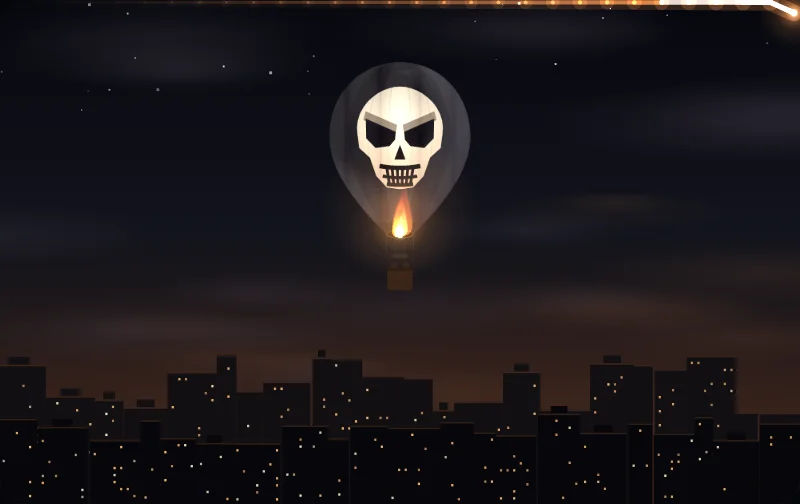
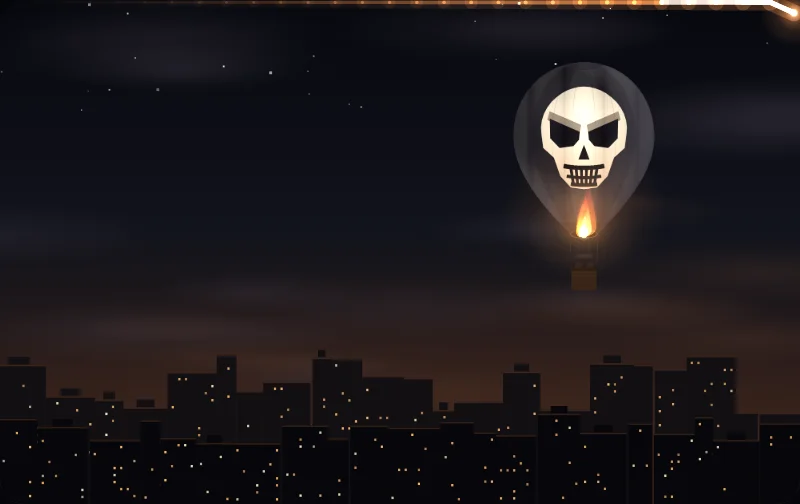
CITY C group 2 — THE SIGHTING CARDS IN THE STANDARD LAYOUT: every sighting's full card laid out like the others (the top line, the plate mid-left, the gem, MEMBER SINCE + Nº bottom-left, the sighting's name + spot line bottom-right); the code-drawn heroes moved right of the plate on a full card (ufo

Changed region(s): [[0.625, 0.119, 0.8438, 0.5952], [0.4062, 0.119, 0.5938, 0.5655]]

diff --git a/api/_lib/lab-text.js b/api/_lib/lab-text.js
@@ -520,6 +520,14 @@ export const LAB_TEXT = {
 // THE LAB 2.0 (THE VAULT 2C) — WHAT CHANGED, per item + version (js/vault/catalog.js#LAB_V holds the numbers): the lab shows the newest
 // line beside his old mark ("CHANGED Nov 3 — …"). A pass that edits an item's art / words bumps its LAB_V + adds its line here.
 export const LAB_CHANGES = {
+  'full-card-sg-ufo': [{ v: 2, at: '2026-11-15', what: 'THE STANDARD LAYOUT (CITY C): laid out like every other full card — the top line, the plate mid-left, the gem, MEMBER SINCE + MEMBER Nº bottom-left and the sighting’s name + spot line bottom-right; the subject moved RIGHT of the plate (it sat mid-card over the old bottom plate).' }],
+  'full-card-sg-tr3b': [{ v: 2, at: '2026-11-15', what: 'THE STANDARD LAYOUT (CITY C): laid out like every other full card — the top line, the plate mid-left, the gem, MEMBER SINCE + MEMBER Nº bottom-left and the sighting’s name + spot line bottom-right; the subject moved RIGHT of the plate (it sat mid-card over the old bottom plate).' }],
+  'full-card-sg-f22': [{ v: 2, at: '2026-11-15', what: 'THE STANDARD LAYOUT (CITY C): laid out like every other full card — the top line, the plate mid-left, the gem, MEMBER SINCE + MEMBER Nº bottom-left and the sighting’s name + spot line bottom-right; the subject moved RIGHT of the plate (it sat mid-card over the old bottom plate).' }],
+  'full-card-sg-ghostship': [{ v: 2, at: '2026-11-15', what: 'THE STANDARD LAYOUT (CITY C): laid out like every other full card — the top line, the plate mid-left, the gem, MEMBER SINCE + MEMBER Nº bottom-left and the sighting’s name + spot line bottom-right; the subject moved RIGHT of the plate (it sat mid-card over the old bottom plate).' }],
+  'full-card-sg-skull': [{ v: 2, at: '2026-11-15', what: 'THE STANDARD LAYOUT (CITY C): laid out like every other full card — the top line, the plate mid-left, the gem, MEMBER SINCE + MEMBER Nº bottom-left and the sighting’s name + spot line bottom-right; the subject moved RIGHT of the plate (it sat mid-card over the old bottom plate).' }],
+  'full-card-sg-blackbird': [{ v: 2, at: '2026-11-15', what: 'THE STANDARD LAYOUT (CITY C): laid out like every other full card — the top line, the plate mid-left, the gem, MEMBER SINCE + MEMBER Nº bottom-left and the sighting’s name + spot line bottom-right; the subject moved RIGHT of the plate (it sat mid-card over the old bottom plate).' }],
+  'full-card-sg-fireball': [{ v: 2, at: '2026-11-15', what: 'THE STANDARD LAYOUT (CITY C): laid out like every other full card — the top line, the plate mid-left, the gem, MEMBER SINCE + MEMBER Nº bottom-left and the sighting’s name + spot line bottom-right; the picture spread across the card behind it.' }],
+  'full-card-sg-aurora': [{ v: 2, at: '2026-11-15', what: 'THE STANDARD LAYOUT (CITY C): laid out like every other full card — the top line, the plate mid-left, the gem, MEMBER SINCE + MEMBER Nº bottom-left and the sighting’s name + spot line bottom-right; the picture spread across the card behind it.' }],
   'card-sg-btc': [{ v: 2, at: '2026-11-08', what: 'New premium art + the burner flare (THE BTC CARD — the approved mock): Grok’s big orange ₿ balloon over the neon harbor, its own strip band (the ₿ + the coins); the burner fires in bursts and the whole balloon lights up from inside, the ₿ blazes, a gold ring pulses out every block, the coins rise + spin, a sheen across the ₿.' }],
   'full-card-sg-btc': [{ v: 2, at: '2026-11-08', what: 'New premium art + the burner flare: the whole harbor picture, laid out like the other full cards (the plate mid-left, MEMBER SINCE + the name at the foot); the balloon rises into the card + a big first burn, then burns every few seconds — the envelope lit from inside, the bloom, the flame on the real burner, the water catching it; the block ring every 10 s.' }, { v: 3, at: '2026-11-09', what: 'The name on one line, the sighting line back, the rise-in fixed: a 12-letter name (MAXIMILIANOS) stays on ONE line at 390; the printed name in the sighting’s glow with “spotted over the harbor” under it, clear of the balloon; the faint warm column behind the balloon while it rises in is gone.' }],
   'card-penthouse': [{ v: 2, at: '2026-11-08', what: 'A NEW FACE (DM2 — the owner’s design A · THE DIAL): the gold-framed window over the city is gone; an Art Deco elevator floor dial, DRAWN IN CODE — the needle climbs 1 → PH, PH blazes, the doors’ seam lights. The strip has its own band (the dial + PH, clear of the gem).' }],

diff --git a/js/vault/full.js b/js/vault/full.js
@@ -142,7 +142,10 @@ export function fullCardEl({ card, tier, who = {}, spotted = null }) {
   const cname = nameOf(card) || (typeof who.cardName === 'string' ? who.cardName : '');
   // (a sighting card keeps its own layout — the title + the spot line, the plate at the foot — EXCEPT one rebuilt on premium art, laid out like
   //  every other full card: THE BTC CARD — the owner's approved mock mock-btc-v1: the top line, the plate mid-left, MEMBER SINCE + the name)
-  const sighting = /^card-sg-/.test(card) && !ART_SIGHTINGS.has(card);
+  // (CITY C — THE SIGHTING CARDS IN THE STANDARD LAYOUT: every sighting card is laid out like every other card —
+  //  the top line, the plate (vault/layout.js: off the hero), the gem, the bottom corners: MEMBER SINCE left, the sighting's printed name + its
+  //  spot line right (the BTC CARD's foot) — no special arrangement left (`sighting` stays false; `sgt` = a sighting's foot)
+  const sighting = false, sgt = /^card-sg-/.test(card);
   const name = (who.name || 'MEMBER').toUpperCase();
   const plate = h('div.vl-fc-plate',
     // (THE VAULT 2A: the player's emblem + tube style + name glow — as on their strip)
@@ -168,7 +171,7 @@ export function fullCardEl({ card, tier, who = {}, spotted = null }) {
     // (CITY C: the rank reads like everyone's — no "DEV ·"; MEMBER Nº sits under MEMBER SINCE — a member number stays server-only data, `who.no`)
     h('div.vl-fc-foot', h('span.vl-fc-since', h('em.vl-fc-rank', bandOf(lv).name), h('small', 'MEMBER SINCE'), h('b', sinceOf(who.at)),
       who.no != null && who.no !== '' && card !== 'card-founder' ? [h('small.vl-fc-no', 'MEMBER Nº'), h('b.vl-fc-no', String(who.no))] : null),
-      sighting ? null : ART_SIGHTINGS.has(card) ? h('span.vl-fc-card.vl-fc-sgt', h('b', cname), h('small.vl-fc-spot', spotted ? `${spotOf(card)} · ${timeOf(spotted)}` : spotOf(card))) : h('span.vl-fc-card', cname)),
+      sgt ? h('span.vl-fc-card.vl-fc-sgt', h('b', cname), h('small.vl-fc-spot', spotted ? `${spotOf(card)} · ${timeOf(spotted)}` : spotOf(card))) : h('span.vl-fc-card', cname)),
     // FOUNDING MEMBER (THE VAULT 2A): the member's REAL number, stamped in gold — a numbered first edition (+ MEMBER SINCE moves in)
     card === 'card-founder' ? h('div.vl-fc-stamp', h('small', 'FOUNDING MEMBER'), h('b', who.no != null ? `№ ${who.no}` : '№ —'), h('em', `SINCE ${sinceOf(who.at)}`)) : null,
     t === 'legendary' ? h('i.vl-fc-brackets', { 'aria-hidden': 'true' }, h('i'), h('i')) : null,

diff --git a/js/fx/ufo.js b/js/fx/ufo.js
@@ -18,7 +18,7 @@ function sky(w, h, dpr, full = false) {
     c.scale(dpr, dpr);
     const g = c.createLinearGradient(0, 0, 0, h); g.addColorStop(0, '#04130f'); g.addColorStop(0.55, '#06201a'); g.addColorStop(1, '#020806');
     c.fillStyle = g; c.fillRect(0, 0, w, h);
-    const gx = full ? w * 0.5 : w * 0.66, gy = full ? h * 0.3 : h * 0.15;
+    const gx = full ? w * 0.72 : w * 0.66, gy = full ? h * 0.34 : h * 0.15;
     const glowR = c.createRadialGradient(gx, gy, 0, gx, gy, w * 0.45); glowR.addColorStop(0, 'rgba(60,200,140,0.22)'); glowR.addColorStop(1, 'rgba(60,200,140,0)');
     c.fillStyle = glowR; c.fillRect(0, 0, w, h);
     const r = rng(1947);
@@ -67,7 +67,7 @@ export default {
     for (let i = 0; i < (full ? 18 : 7); i++) { const x = r() * w, y = r() * h * 0.5, p = r() * 6; stamp(c, glow('220,255,235', 0.3, 16), x, y, 5, still ? 0.5 : 0.25 + 0.6 * Math.max(0, Math.sin(t * 1.3 + p))); }
     // the craft: right of the name plate, high in the strip; a slow bob + a slow turn
     // (a FULL CARD — the reference card-i-want-to-believe.png: the craft centred high, ~55 % of the card wide, its beam down to the quay)
-    const R = full ? w * 0.27 : h * 0.84, cx = full ? w * 0.5 : w * 0.66 /* (B2 — THE HERO-SPOT RULE) */, cy = (full ? h * 0.25 : h * 0.24) + (still ? 0 : wob(t * 0.45, 2) * (full ? h * 0.018 : h * 0.035));
+    const R = full ? w * 0.19 : h * 0.84, cx = full ? w * 0.72 : w * 0.66   /* (CITY C — the standard layout: the hero right of the plate) */ /* (B2 — THE HERO-SPOT RULE) */, cy = (full ? h * 0.3 : h * 0.24) + (still ? 0 : wob(t * 0.45, 2) * (full ? h * 0.018 : h * 0.035));
     const pulse = still ? 0.9 : 0.78 + 0.22 * (0.5 + 0.5 * Math.sin(t * 2.2)) + 0.05 * wob(t * 3, 5);
     const belly = cy + R * 0.27;
     beam(c, cx, belly, R * 0.5, R * 1.7, h + 2, pulse * (s.opts.calm ? 0.85 : 1));

diff --git a/js/fx/sg-balloons.js b/js/fx/sg-balloons.js
@@ -49,7 +49,7 @@ export const skull = {
     c.save(); rrect(c, 0, 0, w, h, rad); c.clip();
     c.drawImage(backdrop(full ? 'sk-full' : 'sk', w, h, dpr, NIGHT), 0, 0, w, h);
     c.drawImage(skylineLayer(full ? 'sk-full' : 'sk', w, h, dpr, { ...ROOFS, y: full ? 0.88 : 0.96, tall: full ? 0.06 : 0.1 }, h, 111, 'all'), 0, 0, w, h);
-    const R = full ? h * 0.14 : h * 0.38, cx = (full ? w * 0.5 : w * 0.69) + (still ? 0 : wob(tt * 0.12, 2) * R * 0.25), top = (full ? h * 0.115 : -h * 0.06) + (still ? 0 : wob(tt * 0.3, 4) * R * 0.06);
+    const R = full ? h * 0.14 : h * 0.38, cx = (full ? w * 0.73 : w * 0.69)   /* (CITY C — the standard layout: the hero right of the plate) */ + (still ? 0 : wob(tt * 0.12, 2) * R * 0.25), top = (full ? h * 0.115 : -h * 0.06) + (still ? 0 : wob(tt * 0.3, 4) * R * 0.06);
     const sway = still ? 0 : wob(tt * 0.5, 7) * 0.025, b = burnAt(tt, still);
     if (B && fxDiag.sprites) {
       const A = art(B, 'skull', R, B.BALLOON_SCHEMES.skull[0], { side: -1, day: 0, gold: 0 }, dpr, 'skull');
@@ -105,7 +105,7 @@ export const btc = {
       }
       c.globalAlpha = 1;
       // THE BLACK ₿ (farther, an orange ₿ glowing)
-      const R2 = full ? h * 0.085 : h * 0.24, x2 = (full ? w * 0.22 : w * 0.53) + (still ? 0 : wob(tt * 0.15, 3) * R2 * 0.2), y2 = (full ? h * 0.17 : h * 0.04) + (still ? 0 : wob(tt * 0.3, 5) * R2 * 0.08);
+      const R2 = full ? h * 0.085 : h * 0.24, x2 = (full ? w * 0.9 : w * 0.53) + (still ? 0 : wob(tt * 0.15, 3) * R2 * 0.2), y2 = (full ? h * 0.42 : h * 0.04) + (still ? 0 : wob(tt * 0.3, 5) * R2 * 0.08);
       const A2 = art(B, 'btc-black', R2, null, light, dpr, 'bitcoin');
       c.drawImage(A2.cv, x2 - A2.w / 2, y2, A2.w, A2.h);
       // THE ORANGE ₿ (near — the hero)

diff --git a/js/vault/layout.js b/js/vault/layout.js
@@ -26,7 +26,14 @@ import { PD_SPECS, pdMap } from '../fx/pd-specs.js';
 /** any other card's full-card hero, as fractions of the card [x, y, w, h] (none declared yet — a NEW focal full card adds its row) */
 export const FULL_HERO = Object.freeze({});
 /** the card's hero on a full card of w × h → [x, y, w, h] in px (or null) */
+// CITY C — THE SIGHTING CARDS IN THE STANDARD LAYOUT: the code-drawn sightings' heroes on a FULL card (fractions [x, y, w, h]) — moved right of
+// the plate (fx/ufo.js, sg-kit.js#stage, sg-tr3b / -f22 / -blackbird / -ghost / -balloons); the plate keeps off them like any hero
+export const SIGHT_HERO = Object.freeze({
+  'card-sg-ufo': [0.6, 0.1, 0.32, 0.6], 'card-sg-tr3b': [0.57, 0.24, 0.37, 0.24], 'card-sg-f22': [0.56, 0.24, 0.4, 0.32],
+  'card-sg-blackbird': [0.57, 0.32, 0.4, 0.2], 'card-sg-ghostship': [0.58, 0.12, 0.36, 0.62], 'card-sg-skull': [0.62, 0.06, 0.34, 0.6],
+});
 export function heroBox(card, w, h) {
+  if (SIGHT_HERO[card]) { const [x, y, bw, bh] = SIGHT_HERO[card]; return [x * w, y * h, bw * w, bh * h]; }
   const S = GIFT_SPECS[card];
   if (S && (S.heroFull || S.hero)) { const M = artMap(w, h, S.full || [50, 50]), [x, y, bw, bh] = S.heroFull || S.hero; return [M.ox + x * M.k, M.oy + y * M.k, bw * M.k, bh * M.k]; }
   const O = OC_SPECS[card];   // (OVERCLOCK CARDS — their 1280 × 720 art)

diff --git a/js/fx/sg-f22.js b/js/fx/sg-f22.js
@@ -56,9 +56,9 @@ export default {
     scrollTile(c, cloudDeck(`f2f:${full}`, w, fh, dpr, DECK_FAR), still ? 0 : tt * (full ? 40 : 30), 0, dy, w, fh);
     scrollTile(c, cloudDeck(`f2n:${full}`, w, nh, dpr, DECK_NEAR), still ? 0 : tt * (full ? 110 : 80), 0, dy + fh * 0.3, w, nh);
     if (img && m && fxDiag.sprites) {
-      const span = full ? w * 0.26 : w * 0.16, rot = full ? 0.02 : 0.1, fa = Math.atan2(m.nose[1] - m.tail[1], m.nose[0] - m.tail[0]) + rot, back = fa + Math.PI;
+      const span = full ? w * 0.2 : w * 0.16, rot = full ? 0.02 : 0.1, fa = Math.atan2(m.nose[1] - m.tail[1], m.nose[0] - m.tail[0]) + rot, back = fa + Math.PI;
       const dx = Math.cos(fa), dy2 = Math.sin(fa), nx = dy2, ny = -dx;                          // (the flight, + its left side on screen)
-      const lead = full ? [w * 0.68, h * 0.235] : [w * 0.76, h * 0.34];
+      const lead = full ? [w * 0.8, h * 0.4] : [w * 0.76, h * 0.34];   /* (CITY C — the standard layout: the hero right of the plate) */
       // the vic: two wingmen behind + to each side (the far one smaller + higher, the near one bigger + lower)
       const JETS = [
         { p: [lead[0] - span * 0.9 * dx + span * 0.24 * nx, lead[1] - span * 0.9 * dy2 + span * 0.24 * ny], k: 0.86, i: 1 },

diff --git a/js/fx/sg-tr3b.js b/js/fx/sg-tr3b.js
@@ -47,7 +47,7 @@ export default {
     c.save(); rrect(c, 0, 0, w, h, rad); c.clip();
     c.drawImage(backdrop(full ? 'tr3b-full' : 'tr3b', w, h, dpr, full ? SKY : SKY_STRIP), 0, 0, w, h);
     // the craft's place: high, a slow drift + bob
-    const len = full ? w * 0.6 : h * 1.95, cx = (full ? S.cx : w * 0.62) +   /* (B2 — THE HERO-SPOT RULE: the strip's craft clear of the gem) */ (still ? 0 : wob(tt * 0.2, 3) * len * 0.03), cy = (full ? h * 0.26 : h * 0.4) + (still ? 0 : wob(tt * 0.35, 1) * len * 0.02);
+    const len = full ? w * 0.42 : h * 1.95, cx = (full ? S.cx : w * 0.62) +   /* (B2 — THE HERO-SPOT RULE: the strip's craft clear of the gem) */ (still ? 0 : wob(tt * 0.2, 3) * len * 0.03), cy = (full ? h * 0.36 : h * 0.4) + (still ? 0 : wob(tt * 0.35, 1) * len * 0.02);
     const cxu = cx / w, dark = 1 - smooth(0.12, 0.42, u) * (1 - smooth(0.7, 0.84, u));      // (1 lit … 0 the whole city dark)
     // THE CITY: its towers, then their windows column by column with the power
     const C = full ? CITY : CITY_STRIP, foot = full ? h * 0.9 : h;

diff --git a/js/vault/catalog.js b/js/vault/catalog.js
@@ -290,6 +290,8 @@ export function registerLabText(t) { for (const x of LAB) if (t && t[x.id]) Obje
 // was made at (the server stamps it); a newer version = CHANGED → the item drops back into NEEDS YOU with its "CHANGED <date> — what" line
 // beside his old mark. (An APPROVE still ships the newer art: CHANGED asks for a re-look, it never pulls approved art.)
 export const LAB_V = Object.freeze({
+  // (CITY C — THE SIGHTING CARDS IN THE STANDARD LAYOUT: every sighting's full card laid out like the others, its hero moved right of the plate)
+  'full-card-sg-ufo': 2, 'full-card-sg-tr3b': 2, 'full-card-sg-f22': 2, 'full-card-sg-ghostship': 2, 'full-card-sg-skull': 2, 'full-card-sg-blackbird': 2, 'full-card-sg-fireball': 2, 'full-card-sg-aurora': 2,
   'card-inferno': 2, 'full-card-inferno': 2, 'card-century': 4, 'full-card-century': 3,
   'card-prism': 2, 'card-emerald': 2, 'card-sg-ufo': 2, 'card-marquee': 2,
   'card-camo': 2, 'card-sg-tr3b': 2,   // (SHELL 2.0 B2 — THE HERO-SPOT AUDIT + the 1 OF 1's gradient)

diff --git a/js/fx/sg-blackbird.js b/js/fx/sg-blackbird.js
@@ -50,8 +50,8 @@ export default {
     c.globalAlpha = 1; c.globalCompositeOperation = 'source-over';
     if (img && m && fxDiag.sprites) {
       // the jet: its length ~74 % of a full card (~50 % of a strip), banked into a near-level line on a strip
-      const span = full ? w * 0.74 : w * 0.42, k = span / m.w, rot = full ? 0.12 : 0.27;
-      const cx = full ? w * 0.54 : w * 0.72, cy = full ? h * 0.27 : h * 0.44;
+      const span = full ? w * 0.46 : w * 0.42, k = span / m.w, rot = full ? 0.12 : 0.27;
+      const cx = full ? w * 0.72 : w * 0.72, cy = full ? h * 0.42 : h * 0.44;   /* (CITY C — the standard layout: the hero right of the plate) */
       const bx = still ? 0 : wob(tt * 3.1, 2) * 0.6, by = still ? 0 : wob(tt * 2.3, 5) * 0.8 + wob(tt * 0.4, 1) * (full ? 3 : 1.5);
       const fa = Math.atan2(m.nose[1] - m.tail[1], m.nose[0] - m.tail[0]) + rot, back = fa + Math.PI;
       const cs = Math.cos(rot), sn = Math.sin(rot);

diff --git a/js/fx/sg-ghost.js b/js/fx/sg-ghost.js
@@ -73,7 +73,7 @@ export default {
     // THE SHIP SAILS: materialises, crosses on the swell with its wake, dissolves, comes again (a 26-s crossing)
     const CROSS = 26, cu = still ? 0.5 : (tt % CROSS) / CROSS;
     const shipH = full ? h * 0.4 : h * 0.78, k = shipH / (BU1 - BU0);
-    const xa = full ? w * 0.4 : w * 0.5, xb = full ? w * 0.84 : w * 0.82, cx = xa + (xb - xa) * cu;
+    const xa = full ? w * 0.62 : w * 0.5, xb = full ? w * 0.9 : w * 0.82   /* (CITY C — the standard layout: the hero right of the plate) */, cx = xa + (xb - xa) * cu;
     const step = Math.floor(tt * 6), hsh = n => { const v = Math.sin(n * 12.9898) * 43758.5453; return v - Math.floor(v); };
     const fadeIn = Math.min(1, cu / 0.09), fadeOut = Math.min(1, (1 - cu) / 0.1);
     const appear = still ? 1 : Math.min(fadeIn, fadeOut) * ((fadeIn < 1 || fadeOut < 1) && hsh(step) < 0.4 ? 0.35 + 0.5 * hsh(step + 7) : 1);

diff --git a/js/fx/sg-kit.js b/js/fx/sg-kit.js
@@ -114,7 +114,7 @@ export function skylineLayer(key, w, h, dpr, S, foot, seed, mode) {
 /** the layout: the subject's box on a strip (right of the name plate, clear of the tier tag) or on a full card (centred high) */
 export function stage(s) {
   const { w, h } = s, full = !!(s.opts && s.opts.full);
-  return full ? { full, w, h, cx: w * 0.5, cy: h * 0.27, u: h * 0.46, span: w * 0.62 } : { full, w, h, cx: w * 0.7, cy: h * 0.42, u: h, span: w * 0.42 };
+  return full ? { full, w, h, cx: w * 0.71, cy: h * 0.36, u: h * 0.4, span: w * 0.42 }   /* (CITY C — the standard layout: the hero right of the plate) */ : { full, w, h, cx: w * 0.7, cy: h * 0.42, u: h, span: w * 0.42 };
 }
 /** a stepped flicker 0..1 (a light failing): mostly on, dropping out in bursts — seeded per i */
 export function failing(t, i, rate = 9) {
